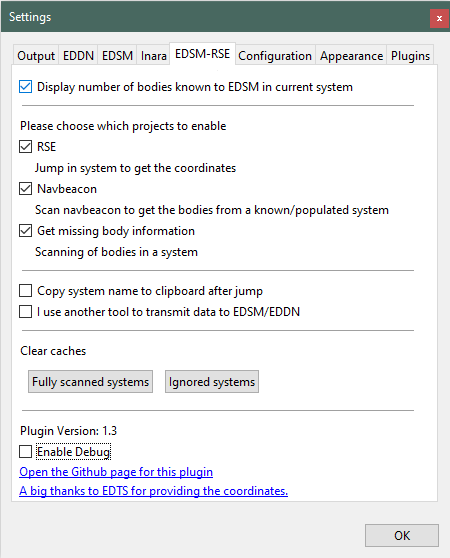
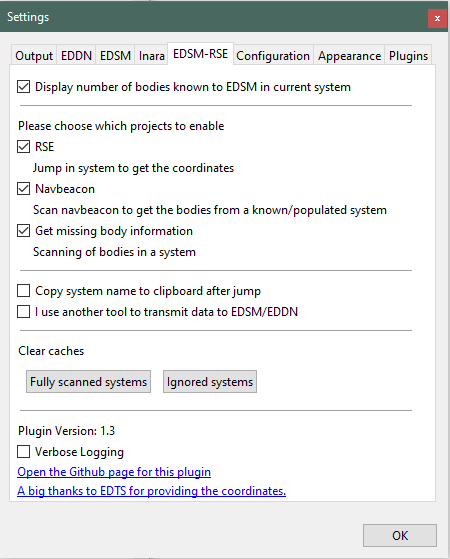
Updating Verbose Logging, bug fixes

diff --git a/BackgroundTask.py b/BackgroundTask.py
@@ -278,11 +278,7 @@ class FSSDiscoveryScanTask(EdsmBodyCheck):
     def queryEdsm(self):
         edsmUrl = "https://www.edsm.net/api-system-v1/bodies?systemName={name}".format(name=quote(self.systemName))
         if __debug__:
-<<<<<<< HEAD
             self.rseData.printdebug("querying EDSM for bodies of system {}".format(self.systemName))
-=======
-        self.rseData.printdebug("querying EDSM for bodies of system {}".format(self.systemName))
->>>>>>> parent of 4927bc3... Merge pull request #3 from Thurion/dev_1.3
 
         try:
             url = urlopen(edsmUrl, timeout=10)

diff --git a/RseData.py b/RseData.py
@@ -164,7 +164,7 @@ class RseData(object):
         self.localDbCursor = None
         self.localDbConnection = None
         self.ignoredProjectsFlags = 0  # bit mask of ignored projects (AND of all their IDs)
-        self.debug = false
+        self.debug = False
 
         """ 
         Dictionary of sets that contain the cached systems. 
